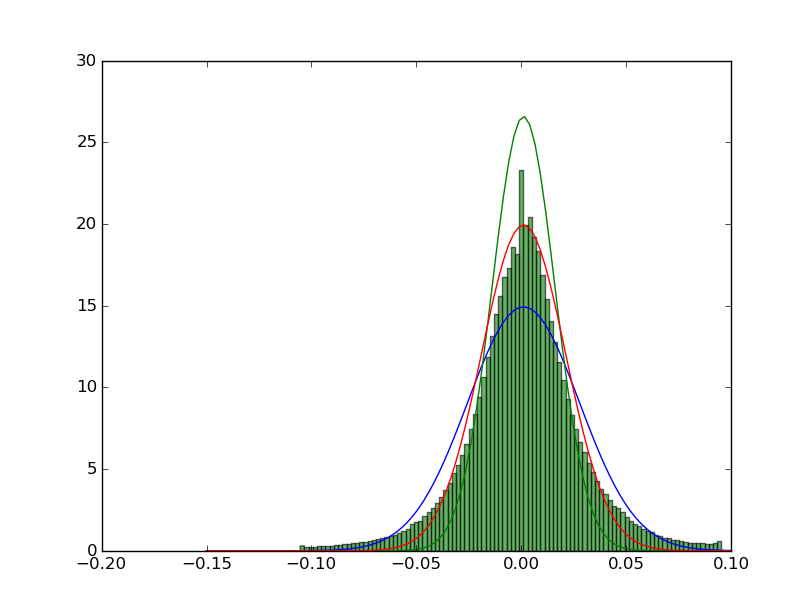
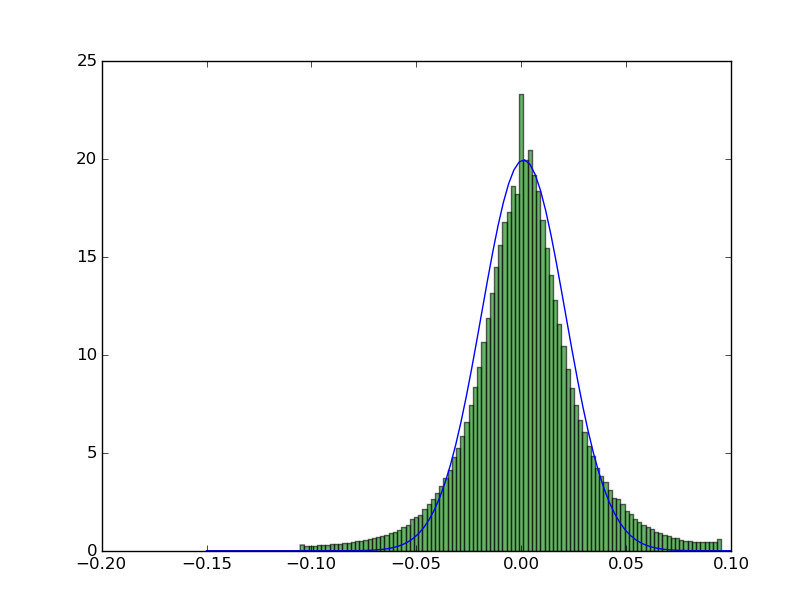
update

diff --git a/StockAnalysis/GrowthNormDis.py b/StockAnalysis/GrowthNormDis.py
@@ -31,10 +31,6 @@ print(params)
 plt.hist(growth, bins=100, normed=True, alpha=0.6, color='g')
 xmin, xmax = plt.xlim()
 x = np.linspace(xmin, xmax, 100)
-p = norm.pdf(x, params[0], params[1])
-p1 = norm.pdf(x, params[0], 0.015)
-p2 = norm.pdf(x, params[0], 0.02)
-plt.plot(x, p)
+p1 = norm.pdf(x, params[0], 0.02)
 plt.plot(x, p1)
-plt.plot(x, p2)
 plt.show()
